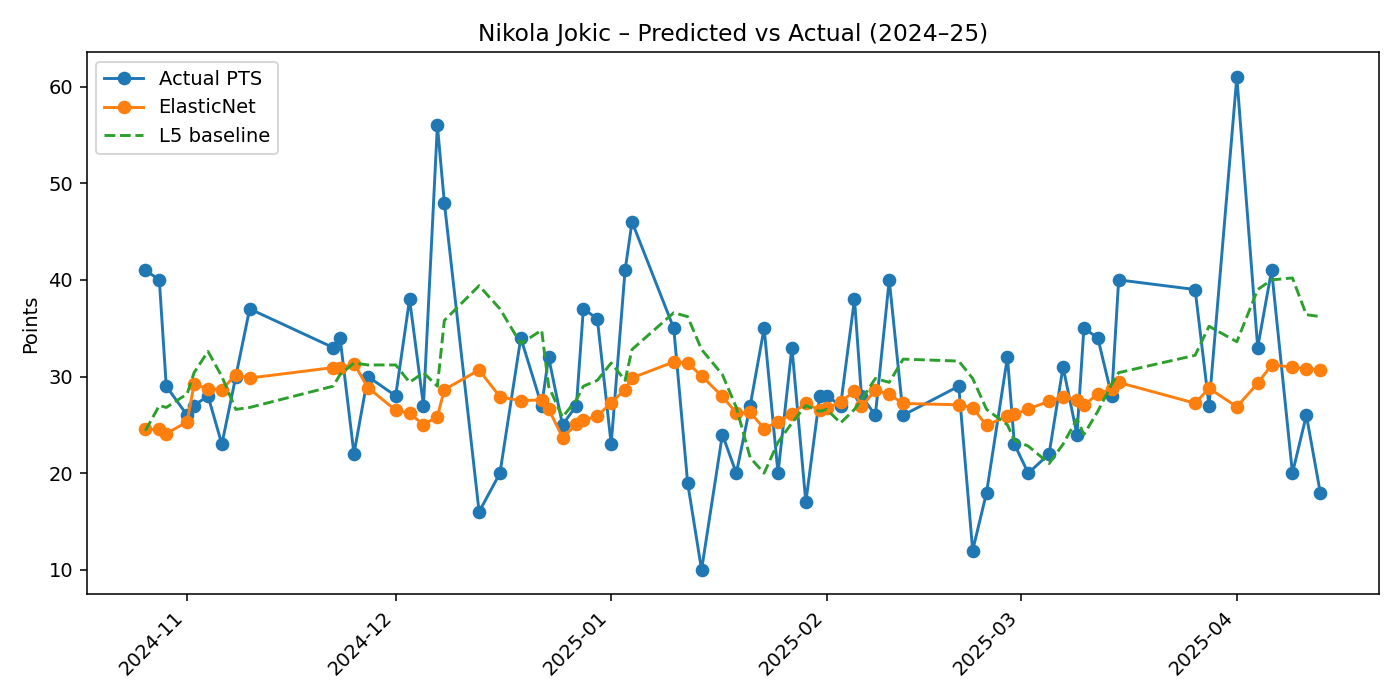
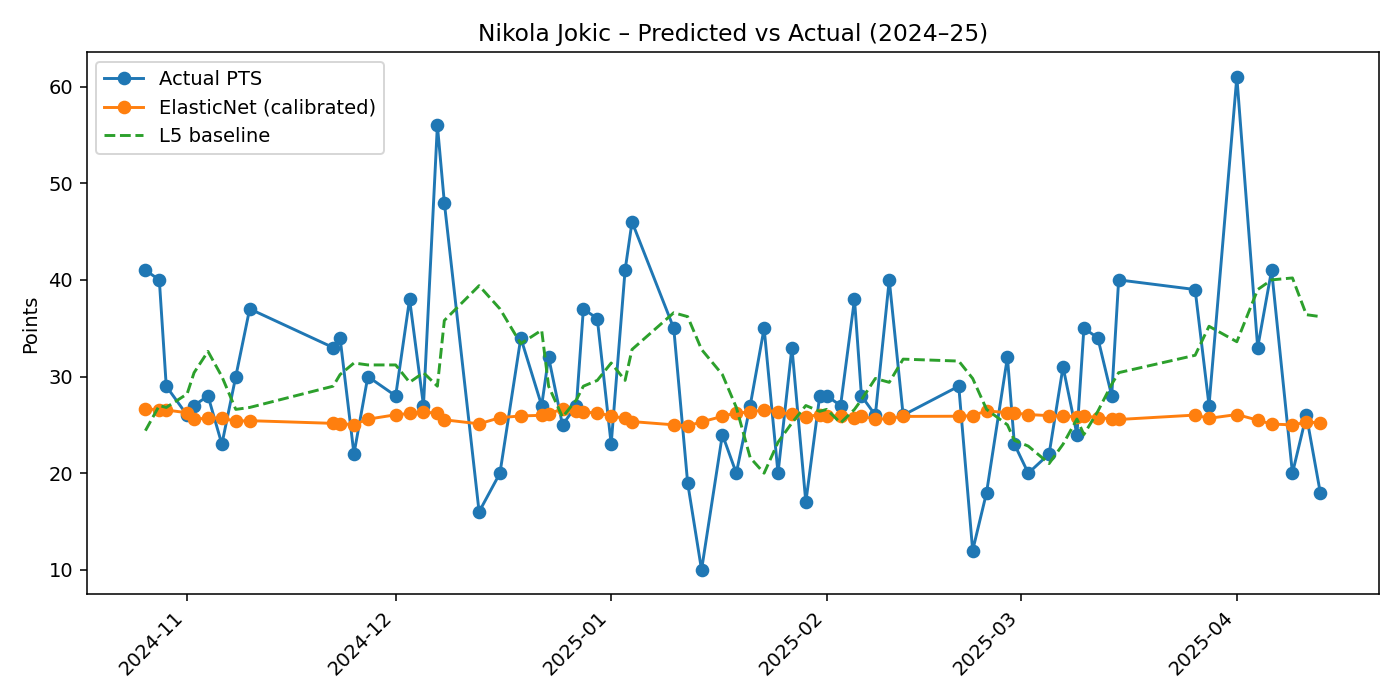
Refined ElasticNet model for better predictions. more refinement needed.

Changed region(s): [[0.0921, 0.51, 0.9521, 0.63], [0.1229, 0.12, 0.2764, 0.18]]

diff --git a/Data/src/Models/jokic_elasticnet.py b/Data/src/Models/jokic_elasticnet.py
@@ -5,11 +5,12 @@ import time
 import numpy as np
 import pandas as pd
 import matplotlib.pyplot as plt
+from pathlib import Path
 
 from pymongo import MongoClient, UpdateOne
 
 from sklearn.pipeline import Pipeline
-from sklearn.preprocessing import StandardScaler
+from sklearn.preprocessing import StandardScaler, RobustScaler
 from sklearn.linear_model import ElasticNet
 from sklearn.model_selection import GridSearchCV
 from sklearn.metrics import mean_absolute_error, mean_squared_error, r2_score
@@ -44,10 +45,11 @@ DB_NAME   = "sportsinsight"
 PRED_COLL = "predictions_2024_25"
 
 # modest, pre-declared HP grid (no optimization theater)
-PARAM_GRID = {
-    "model__alpha":    [1e-3, 3e-3, 1e-2, 3e-2, 1e-1],
-    "model__l1_ratio": [0.3, 0.5, 0.7],
-}
+PARAM_GRID = [{
+  "model": [ElasticNet(max_iter=50000, tol=1e-5, random_state=42)],
+  "model__alpha":    [0.02, 0.03, 0.05, 0.08, 0.10, 0.15],
+  "model__l1_ratio": [0.6, 0.7, 0.8, 0.9, 0.95, 1.0],
+}]
 
 FEATURE_COLS = [
     "PTS_L5","REB_L5","AST_L5","MIN_L5","FGA_L5","FTA_L5","FG3A_L5",
@@ -111,6 +113,12 @@ def build_features(df_all: pd.DataFrame) -> pd.DataFrame:
     df_all["OPP_ABBR"] = opp_home.apply(lambda x: x[0])
     df_all["IS_HOME"]  = opp_home.apply(lambda x: x[1]).astype(int)
 
+    df_all = df_all.sort_values("GAME_DATE").reset_index(drop=True)
+
+    df_all["TRAVEL"] = (
+        df_all.groupby("SEASON")["IS_HOME"].diff().fillna(0).ne(0).astype(int)
+    )
+
     # Opponent DEF_RATING by season (fallback to median)
     def_maps = {}
     seasons = sorted(df_all["SEASON"].unique())
@@ -133,11 +141,20 @@ def build_features(df_all: pd.DataFrame) -> pd.DataFrame:
     # For season openers, use days since previous season game if available; otherwise default to 3
     df_all["REST_DAYS"] = df_all["REST_DAYS"].fillna(3).clip(lower=0)
 
-    # Rolling L5 means (shifted) across full chronology (OK: uses prior-season tail for season openers)
+    df_all["IS_B2B"] = (df_all["REST_DAYS"] == 0).astype(int)
+
+    # Rolling L5 means (shifted) across full chronology
     df_all = df_all.sort_values("GAME_DATE").reset_index(drop=True)
-    for col in ["PTS","REB","AST","MIN","FGA","FTA","FG3A"]:
-        if col in df_all.columns:
-            df_all[f"{col}_L5"] = df_all[col].rolling(5).mean().shift(1)
+    stats_for_rolling = ["PTS", "REB", "AST", "MIN", "FGA", "FTA", "FG3A"]
+    windows = [3, 5]
+
+    for stat in stats_for_rolling:
+        if stat in df_all.columns:
+            for w in windows:
+                df_all[f"{stat}_L{w}"] = df_all[stat].rolling(window=w).mean().shift(1)
+    
+    if {"PTS_L5", "MIN_L5"}.issubset(df_all.columns):
+        df_all["PTSxMIN_L5"] = df_all["PTS_L5"] * df_all["MIN_L5"]
 
     # Season-to-date average baseline (shifted, per season)
     df_all["PTS_SEASON_TD"] = df_all.groupby("SEASON")["PTS"] \
@@ -175,23 +192,26 @@ def evaluate_and_report(y_true, y_pred, y_l5, y_season_td):
     print(f"RMSE:       {rmse:.3f}")
     print(f"Median AE:  {med:.3f}")
     print(f"R^2:        {r2:.3f}")
-    print(f"MAE (L5):   {mae_l5:.3f}   → Skill vs L5: {skill_l5:.1f}%")
-    print(f"MAE (STD):  {mae_std:.3f}  → Skill vs Season-to-date: {skill_std:.1f}%")
+    print(f"MAE (L5):   {mae_l5:.3f}   -> Skill vs L5: {skill_l5:.1f}%")
+    print(f"MAE (STD):  {mae_std:.3f}  -> Skill vs Season-to-date: {skill_std:.1f}%")
     return dict(MAE=mae, RMSE=rmse, MedAE=med, R2=r2, MAE_L5=mae_l5, MAE_STD=mae_std,
                 Skill_L5=skill_l5, Skill_STD=skill_std)
 
 def save_plots(pred_df: pd.DataFrame):
+    output_dir = Path("./plots")
+    output_dir.mkdir(exist_ok=True)
+
     # Pred vs Actual
     plt.figure(figsize=(10,5))
     plt.plot(pd.to_datetime(pred_df["GAME_DATE"]), pred_df["PTS"], marker="o", label="Actual PTS")
-    plt.plot(pd.to_datetime(pred_df["GAME_DATE"]), pred_df["PRED_PTS"], marker="o", label="ElasticNet")
+    plt.plot(pd.to_datetime(pred_df["GAME_DATE"]), pred_df["PRED_PTS"], marker="o", label="ElasticNet (calibrated)")
     plt.plot(pd.to_datetime(pred_df["GAME_DATE"]), pred_df["L5_BASELINE"], linestyle="--", label="L5 baseline")
     plt.xticks(rotation=45, ha="right")
     plt.title("Nikola Jokic – Predicted vs Actual (2024–25)")
     plt.ylabel("Points")
     plt.tight_layout()
     plt.legend()
-    plt.savefig("jokic_pred_vs_actual_2024_25.png", dpi=140)
+    plt.savefig(output_dir / f"{PLAYER_NAME.replace(' ', '_')}_pred_vs_actual_2024_25.png", dpi=140)
 
     # Residuals histogram
     plt.figure(figsize=(6,4))
@@ -200,7 +220,7 @@ def save_plots(pred_df: pd.DataFrame):
     plt.title("Residuals (Actual − Predicted) – 2024–25")
     plt.xlabel("Points")
     plt.tight_layout()
-    plt.savefig("jokic_residuals_hist_2024_25.png", dpi=140)
+    plt.savefig(output_dir / f"{PLAYER_NAME.replace(' ', '_')}_pred_vs_actual_2024_25.png", dpi=140)
 
 def save_predictions_to_mongo(pred_df: pd.DataFrame):
     try:
@@ -229,6 +249,14 @@ def save_predictions_to_mongo(pred_df: pd.DataFrame):
     except Exception as e:
         print(f"(Mongo warning) Could not save predictions: {e}")
 
+def show_coefs(pipe, feat_cols):
+    lr = pipe.named_steps["model"]
+    w = lr.coef_
+    ranked = sorted(zip(np.abs(w), w, feat_cols), reverse=True)
+    print("\nTop |w| coefficients:")
+    for _, val, name in ranked[:12]:
+        print(f"{name:>14s}: {val:+.3f}")
+
 
 if __name__ == "__main__":
     # 1) Fetch raw data
@@ -243,7 +271,9 @@ if __name__ == "__main__":
             else:
                 print(f"{s}: no games")
         except Exception as e:
-            print(f"Fetch error {s}: {e}")
+            print(f"Network error fetching {s}: {e}")
+        except Exception as e:
+            print(f"An unexpected error occurred for {s}: {e}")
     if not dfs:
         raise SystemExit("No data fetched.")
     raw = pd.concat(dfs, ignore_index=True).sort_values("GAME_DATE").reset_index(drop=True)
@@ -254,13 +284,16 @@ if __name__ == "__main__":
     # 3) Split into train (<=2023–24) and test (2024–25)
     train = feats[feats["SEASON"].isin(TRAIN_SEASONS)].copy()
     test  = feats[feats["SEASON"] == TEST_SEASON].copy()
+    feat_cols = [c for c in FEATURE_COLS if c in train.columns and c in test.columns]
+    if not feat_cols:
+        raise SystemExit("No usable features after intersection. Check feature engineering.")
     if train.empty or test.empty:
         raise SystemExit("Train or test set is empty after feature building.")
 
-    X_train = train[FEATURE_COLS].values
+    X_train = train[feat_cols].values
     y_train = train["PTS"].values
 
-    X_test  = test[FEATURE_COLS].values
+    X_test  = test[feat_cols].values
     y_test  = test["PTS"].values
 
     # Baselines for test
@@ -270,9 +303,10 @@ if __name__ == "__main__":
     # 4) Expanding-window CV (inside 2013–24) for ElasticNet
     cv_splits = list(expanding_window_splits(train))
     pipe = Pipeline([
-    ("scaler", StandardScaler()),
-    ("model", ElasticNet(max_iter=10000, random_state=42)),
+        ("scaler", RobustScaler()),
+        ("model", ElasticNet(max_iter=50000, tol=1e-5, random_state=42)),
     ])
+
 
     gs = GridSearchCV(
         pipe,
@@ -291,7 +325,21 @@ if __name__ == "__main__":
     # 5) Final fit on all 2013–24 and predict 2024–25
     best_model = gs.best_estimator_
     best_model.fit(X_train, y_train)
-    y_pred = best_model.predict(X_test)
+    show_coefs(best_model, feat_cols)
+
+    last_tr_idx, last_va_idx = list(expanding_window_splits(train))[-1]
+    X_val = train.iloc[last_va_idx][feat_cols].values
+    y_val = train.iloc[last_va_idx]["PTS"].values
+
+    y_val_hat = best_model.predict(X_val)
+    A = np.vstack([np.ones_like(y_val_hat), y_val_hat]).T
+    if not np.isfinite(a) or not np.isfinite(b) or b <= 0.1:
+        # guard: skip bad/near-flat/negative calibration
+        a, b = 0.0, 1.0
+        print("Calibration skipped (unstable slope); using identity mapping.")
+    
+    y_pred_raw = best_model.predict(X_test)
+    y_pred = np.clip(a + b * y_pred_raw, 0, 80)
 
     # 6) Evaluate on 2024–25
     metrics = evaluate_and_report(y_test, y_pred, l5_base, std_base)
@@ -301,7 +349,7 @@ if __name__ == "__main__":
     out["PRED_PTS"]     = y_pred
     out["L5_BASELINE"]  = l5_base
     out["STD_BASELINE"] = std_base
-    out.to_csv("jokic_elasticnet_2024_25_predictions.csv", index=False)
+    out.to_csv(f"{PLAYER_NAME.replace(' ', '_')}_elasticnet_2024_25_predictions.csv", index=False)
     print("Saved CSV: jokic_elasticnet_2024_25_predictions.csv")
 
     save_plots(out)
